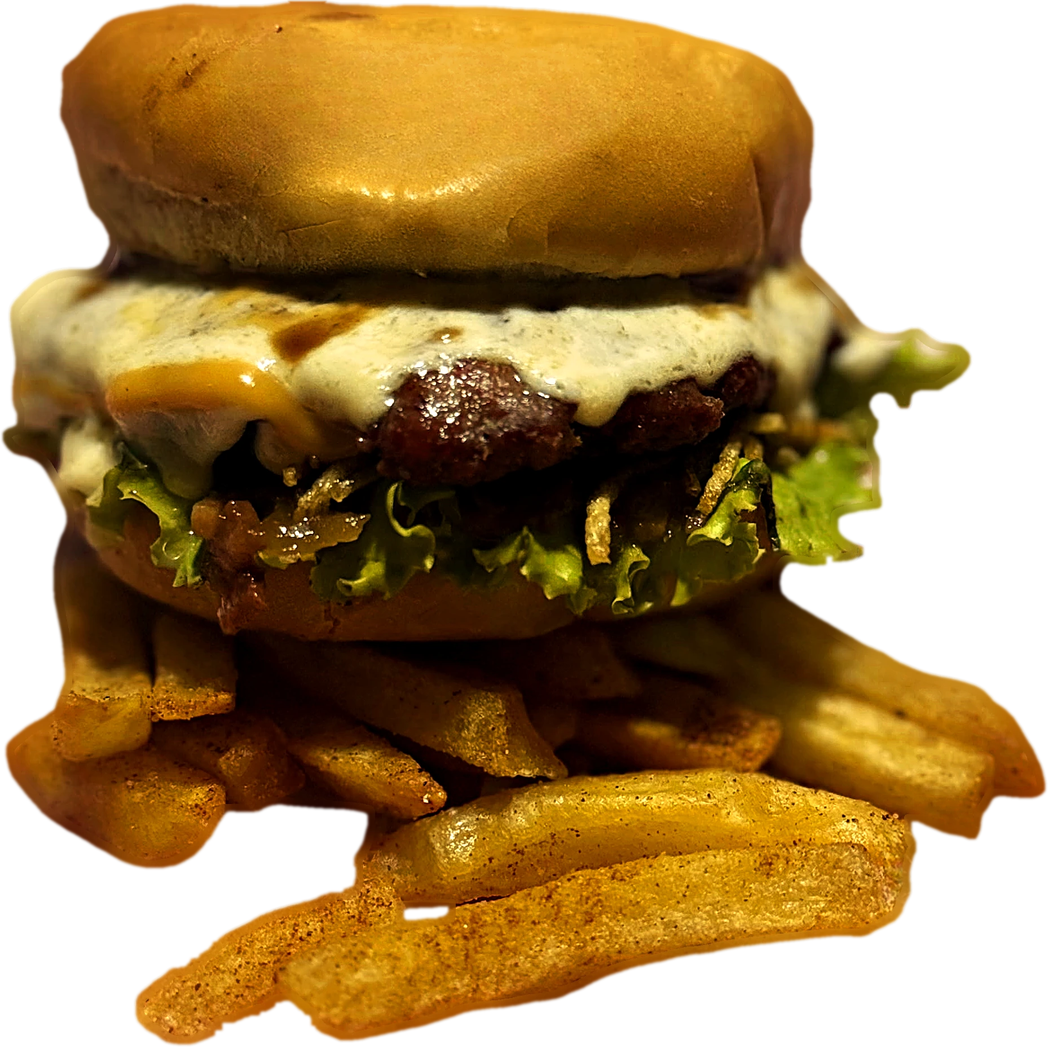
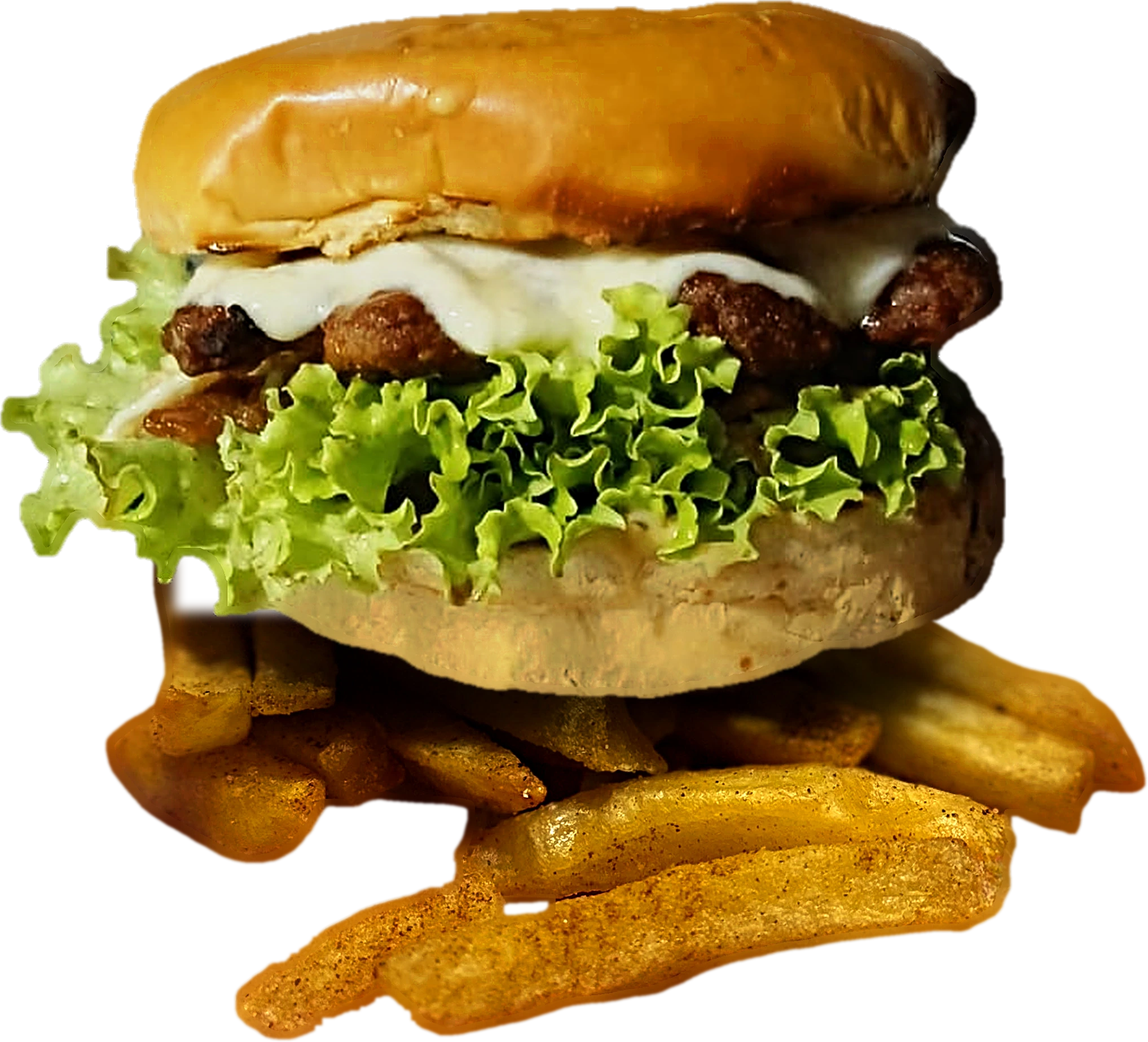
origo: La Brasa con nueva foto y papas de la foto anterior
Nueva foto recortada con BiRefNet, color para luz cálida (pan de abajo
dorado), bordes parejos y montaje sobre la pila de papas de la foto
anterior con sombra de contacto. Scripts nuevos en foto/proceso.

Claude-Session: https://claude.ai/code/session_01UkupjETp9Vt18pzUyhjpjY

diff --git a/origo/foto/la-brasa.html b/origo/foto/la-brasa.html
@@ -66,9 +66,9 @@
     left: 50%;
     top: 225px;
     height: 790px;
-    /* Las papas se abren más a la derecha: se corre la imagen para que el eje del pan
-       quede en el centro del lienzo (desfase medido: 9.85% del ancho de la imagen). */
-    transform: translateX(calc(-50% + 9.85%));
+    /* Se corre la imagen para que el eje del pan quede en el centro del lienzo
+       (desfase medido por montar_papas.py: 1.42% del ancho de la imagen). */
+    transform: translateX(calc(-50% - 1.42%));
     filter:
       drop-shadow(0 0 70px rgb(255 90 31 / 0.12))
       drop-shadow(0 28px 30px rgb(0 0 0 / 0.65));

diff --git a/origo/foto/proceso/montar_papas.py b/origo/foto/proceso/montar_papas.py
@@ -1,0 +1,68 @@
+"""Monta una hamburguesa recortada sobre las papas de otra foto.
+
+Uso: montar_papas.py hamburguesa.png papas_fuente.png salida.png
+- hamburguesa.png: recorte RGBA (ya con color y bordes)
+- papas_fuente.png: recorte final de La Brasa (1858x1857) del que se toman las papas
+"""
+import sys
+import numpy as np
+from PIL import Image, ImageDraw, ImageFilter
+
+ham_p, papas_p, dst = sys.argv[1:4]
+ham = Image.open(ham_p).convert("RGBA")
+ham = ham.crop(ham.getbbox())
+fuente = Image.open(papas_p).convert("RGBA")
+W, H = fuente.size
+
+# 1) Capa de papas: lo que está debajo del pan de abajo en la foto de origen.
+m = Image.new("L", (W, H), 0)
+d = ImageDraw.Draw(m)
+d.rectangle((0, 1095, W, H), fill=255)          # pila de papas
+d.rectangle((1300, 1040, W, H), fill=255)       # papas que asoman a la derecha
+d.rectangle((0, 1000, 130, H), fill=255)        # papas del borde izquierdo
+m = m.filter(ImageFilter.GaussianBlur(10))
+a = np.asarray(fuente.getchannel("A")).astype(np.float32) * np.asarray(m).astype(np.float32) / 255
+papas = fuente.copy()
+papas.putalpha(Image.fromarray(a.astype(np.uint8)))
+
+# 2) Escalar la hamburguesa: su tapa debe medir lo que medía la tapa de La Brasa (~1320 px).
+ah = np.asarray(ham.getchannel("A")) > 128
+fila_tapa = int(ah.shape[0] * 0.10)
+xs = np.nonzero(ah[fila_tapa])[0]
+escala = 1320 / (xs.max() - xs.min())
+fila_base = int(ah.shape[0] * 0.90)
+xs = np.nonzero(ah[fila_base])[0]
+centro_pan = (xs.max() + xs.min()) / 2
+ham = ham.resize((round(ham.width * escala), round(ham.height * escala)), Image.LANCZOS)
+ham = ham.filter(ImageFilter.UnsharpMask(radius=2, percent=60, threshold=1))
+
+# 3) Posición: base del pan nuevo apoyada en la pila (centro x≈760, base y≈1155).
+cx, base = 905, 1250
+x = round(cx - centro_pan * escala)
+y = round(base - ham.height)
+
+# Lienzo que contiene ambas capas.
+izq, arr = min(0, x), min(0, y)
+der, abj = max(W, x + ham.width), max(H, y + ham.height)
+lienzo = Image.new("RGBA", (der - izq, abj - arr), (0, 0, 0, 0))
+lienzo.alpha_composite(papas, (-izq, -arr))
+
+# 4) Sombra de contacto del pan sobre las papas (multiplica, solo donde hay papas).
+sombra = Image.new("L", lienzo.size, 0)
+ds = ImageDraw.Draw(sombra)
+ancho = 1100
+ds.ellipse((cx - izq - ancho * 0.62, base - arr - 120, cx - izq + ancho * 0.62, base - arr + 70), fill=200)
+sombra = sombra.filter(ImageFilter.GaussianBlur(45))
+arr_l = np.asarray(lienzo).astype(np.float32)
+k = 1 - np.asarray(sombra).astype(np.float32)[..., None] / 255 * 0.75
+arr_l[..., :3] *= k
+lienzo = Image.fromarray(np.clip(arr_l, 0, 255).astype(np.uint8))
+
+lienzo.alpha_composite(ham, (x - izq, y - arr))
+lienzo = lienzo.crop(lienzo.getbbox())
+lienzo.save(dst)
+
+al = np.asarray(lienzo.getchannel("A")) > 128
+filas = al[: int(al.shape[0] * 0.15)]
+c = np.mean([(np.nonzero(f)[0].min() + np.nonzero(f)[0].max()) / 2 for f in filas if f.any()])
+print("ok", lienzo.size, "escala", round(escala, 2), "desfase_pan_pct", round((c - lienzo.width / 2) / lienzo.width * 100, 2))

diff --git a/origo/foto/proceso/color_v2.py b/origo/foto/proceso/color_v2.py
@@ -1,0 +1,50 @@
+"""Gradación para fotos con luz cálida (sin tinte verde): pan de abajo dorado, carne con vida."""
+import sys
+import numpy as np
+from PIL import Image, ImageFilter
+
+src, dst = sys.argv[1:3]
+im = Image.open(src).convert("RGBA")
+alpha = im.getchannel("A")
+rgb = np.asarray(im.convert("RGB")).astype(np.float32) / 255
+H = rgb.shape[0]
+
+hsv = np.asarray(Image.fromarray((rgb * 255).astype(np.uint8)).convert("HSV")).astype(np.float32)
+h, s, v = hsv[..., 0] * 360 / 255, hsv[..., 1] / 255, hsv[..., 2] / 255
+
+def banda(c, ancho):
+    d = np.abs((h - c + 180) % 360 - 180)
+    return np.clip(1 - d / ancho, 0, 1)
+
+filas = (np.arange(H)[:, None] / H)
+pan_abajo = np.clip((filas - 0.72) / 0.05, 0, 1)          # franja inferior de la hamburguesa
+# Peso continuo (sin cortes bruscos) para no manchar la miga.
+pan_claro = banda(42, 30) * np.clip((0.55 - s) / 0.25, 0, 1) * np.clip((v - 0.40) / 0.25, 0, 1)
+
+# Pan de abajo: de blanco pálido a miga dorada.
+s = s + 0.24 * pan_abajo * pan_claro
+v = v * (1 - 0.10 * pan_abajo * pan_claro)
+h = h - 4 * pan_abajo * pan_claro
+# Pan de arriba y tostados: un punto más de dorado.
+s = s * (1 + banda(36, 16) * 0.08)
+# Carne: más profunda.
+rojo = banda(15, 22)
+s = s * (1 + rojo * 0.18)
+v = v * (1 - rojo * 0.08)
+# Lechuga: ya viene viva; solo un toque.
+s = s * (1 + banda(85, 25) * 0.05)
+s = np.clip(s, 0, 1)
+
+hsv = np.stack([(h % 360) * 255 / 360, s * 255, np.clip(v, 0, 1) * 255], -1).astype(np.uint8)
+rgb = np.asarray(Image.fromarray(hsv, "HSV").convert("RGB")).astype(np.float32) / 255
+
+# Bajar un poco las luces quemadas del sol y dar curva en S suave.
+rgb = np.where(rgb > 0.85, 0.85 + (rgb - 0.85) * 0.6, rgb)
+rgb = rgb ** 1.05
+rgb = np.clip(rgb + 0.10 * (rgb - 0.5) * (1 - np.abs(2 * rgb - 1)), 0, 1)
+
+out = Image.fromarray((rgb * 255).astype(np.uint8))
+out = out.filter(ImageFilter.UnsharpMask(radius=12, percent=22, threshold=0))
+out.putalpha(alpha)
+out.save(dst)
+print("ok")

diff --git a/origo/foto/proceso/README.md b/origo/foto/proceso/README.md
@@ -11,8 +11,10 @@ Corren en un entorno virtual con `rembg[cpu]`, `torch` y `Pillow`.
 | 3    | `limpiar.py`     | Elimina restos del mantel rojo/blanco en bordes y huecos                                  |
 | 4    | `color.py`       | Gradación apetitosa: quita el tinte verde de la luz, pan tostado, carne y papas con más vida |
 | 5    | `bordes.py`      | Silueta pareja, borde suave homogéneo, quita el filo de color del mantel y mide el eje del pan |
+| 4b   | `color_v2.py`    | Variante de color para fotos con luz cálida: dora el pan de abajo y da vida a la carne      |
+| 6    | `montar_papas.py`| Asienta una hamburguesa sin papas sobre la pila de papas de La Brasa, con sombra de contacto |
 
-Ejemplo para La Brasa:
+Ejemplo para la primera foto de La Brasa (con papas):
 
 ```bash
 python quitar_papa.py la-brasa.jpg recorte-previo.png big-lama.pt sin-papa.jpg mascara.png
@@ -21,6 +23,17 @@ python recortar.py pan-ok.jpg cut.png birefnet-general
 python limpiar.py cut.png limpio.png
 python color.py limpio.png color.png
 python bordes.py color.png final.png
+```
+
+Foto actual de La Brasa (sin papas, luz cálida). Primero se amplía el recorte 2.6x con 60 px de margen
+transparente para que `bordes.py` trabaje a la misma escala que la foto anterior:
+
+```bash
+python recortar.py la-brasa-3.jpg cut.png birefnet-general
+# ampliar 2.6x + margen de 60 px -> cut-x.png
+python color_v2.py cut-x.png color.png
+python bordes.py color.png bordes.png
+python montar_papas.py bordes.png final-primera-foto.png montaje.png
 ```
 
 El resultado se guarda como `assets/<plato>-recorte.webp`. `bordes.py` imprime el desfase del eje del pan,
